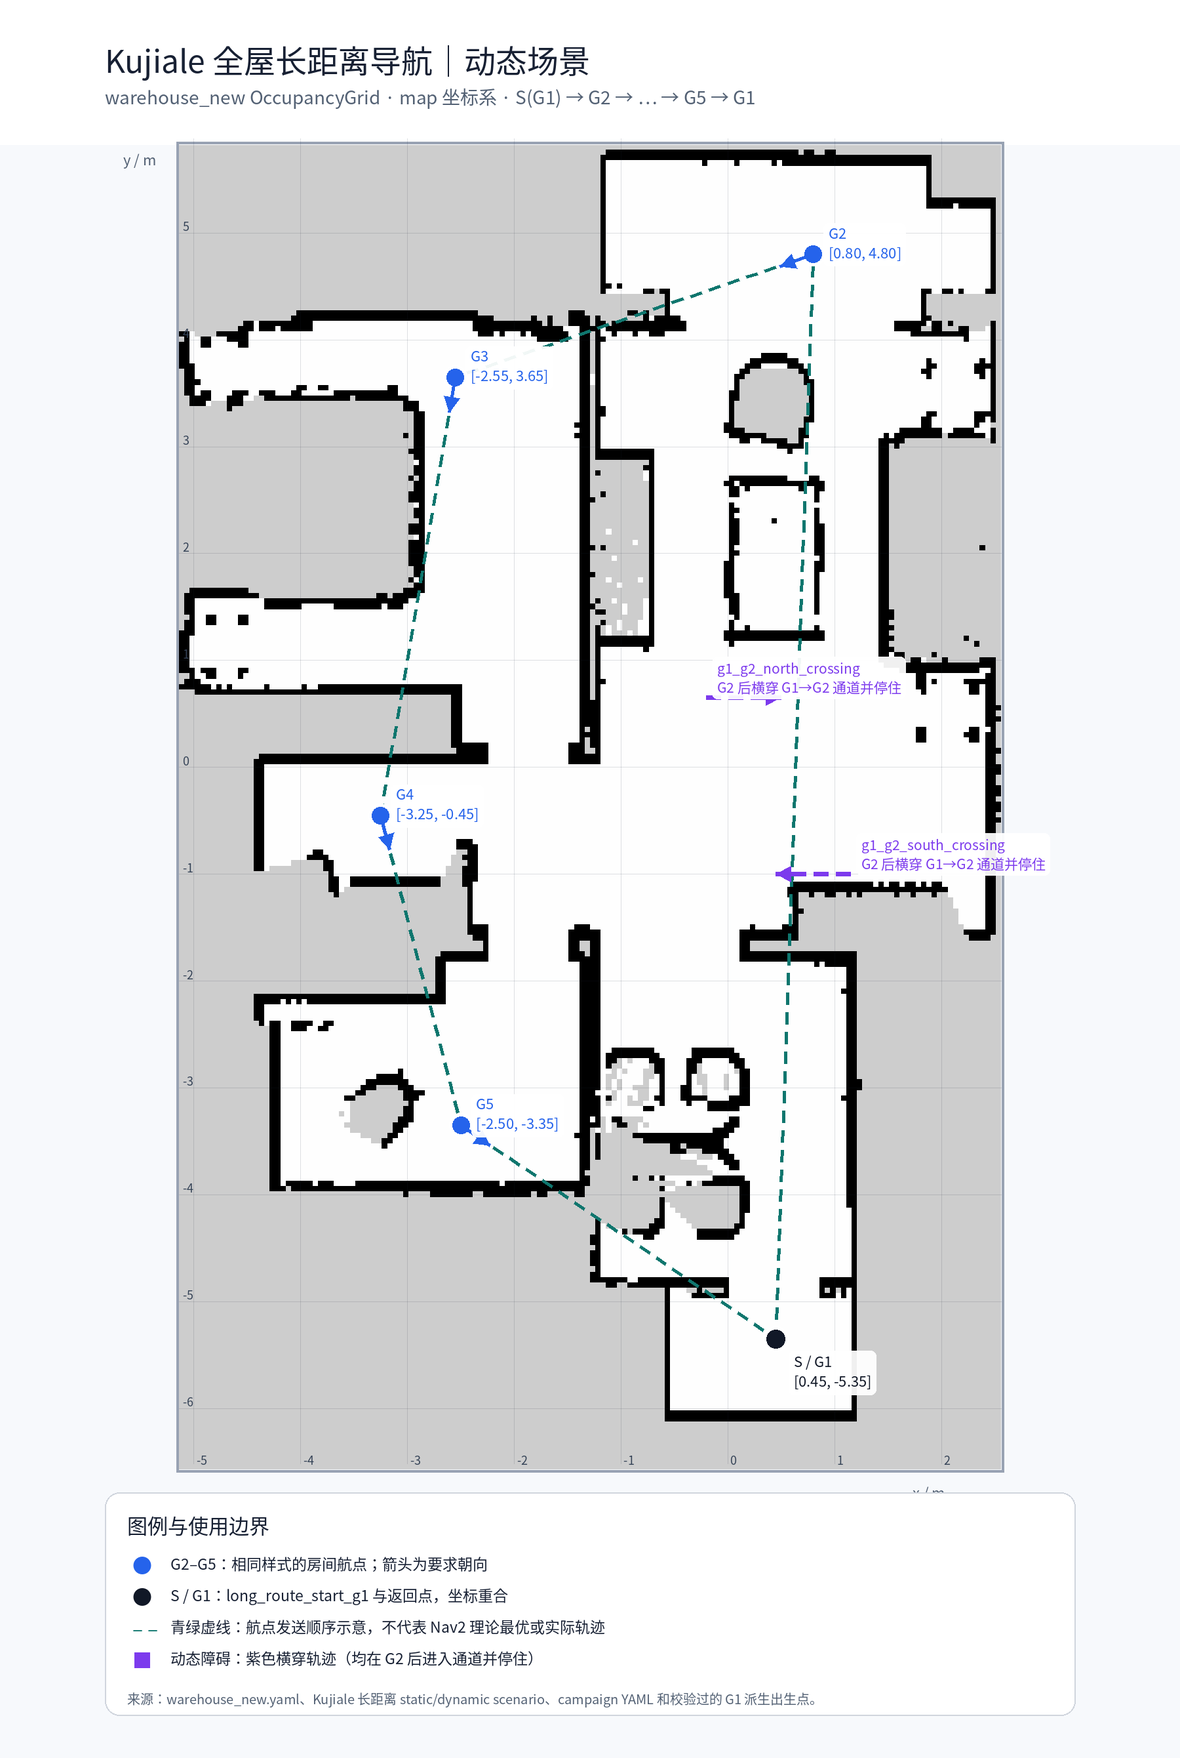
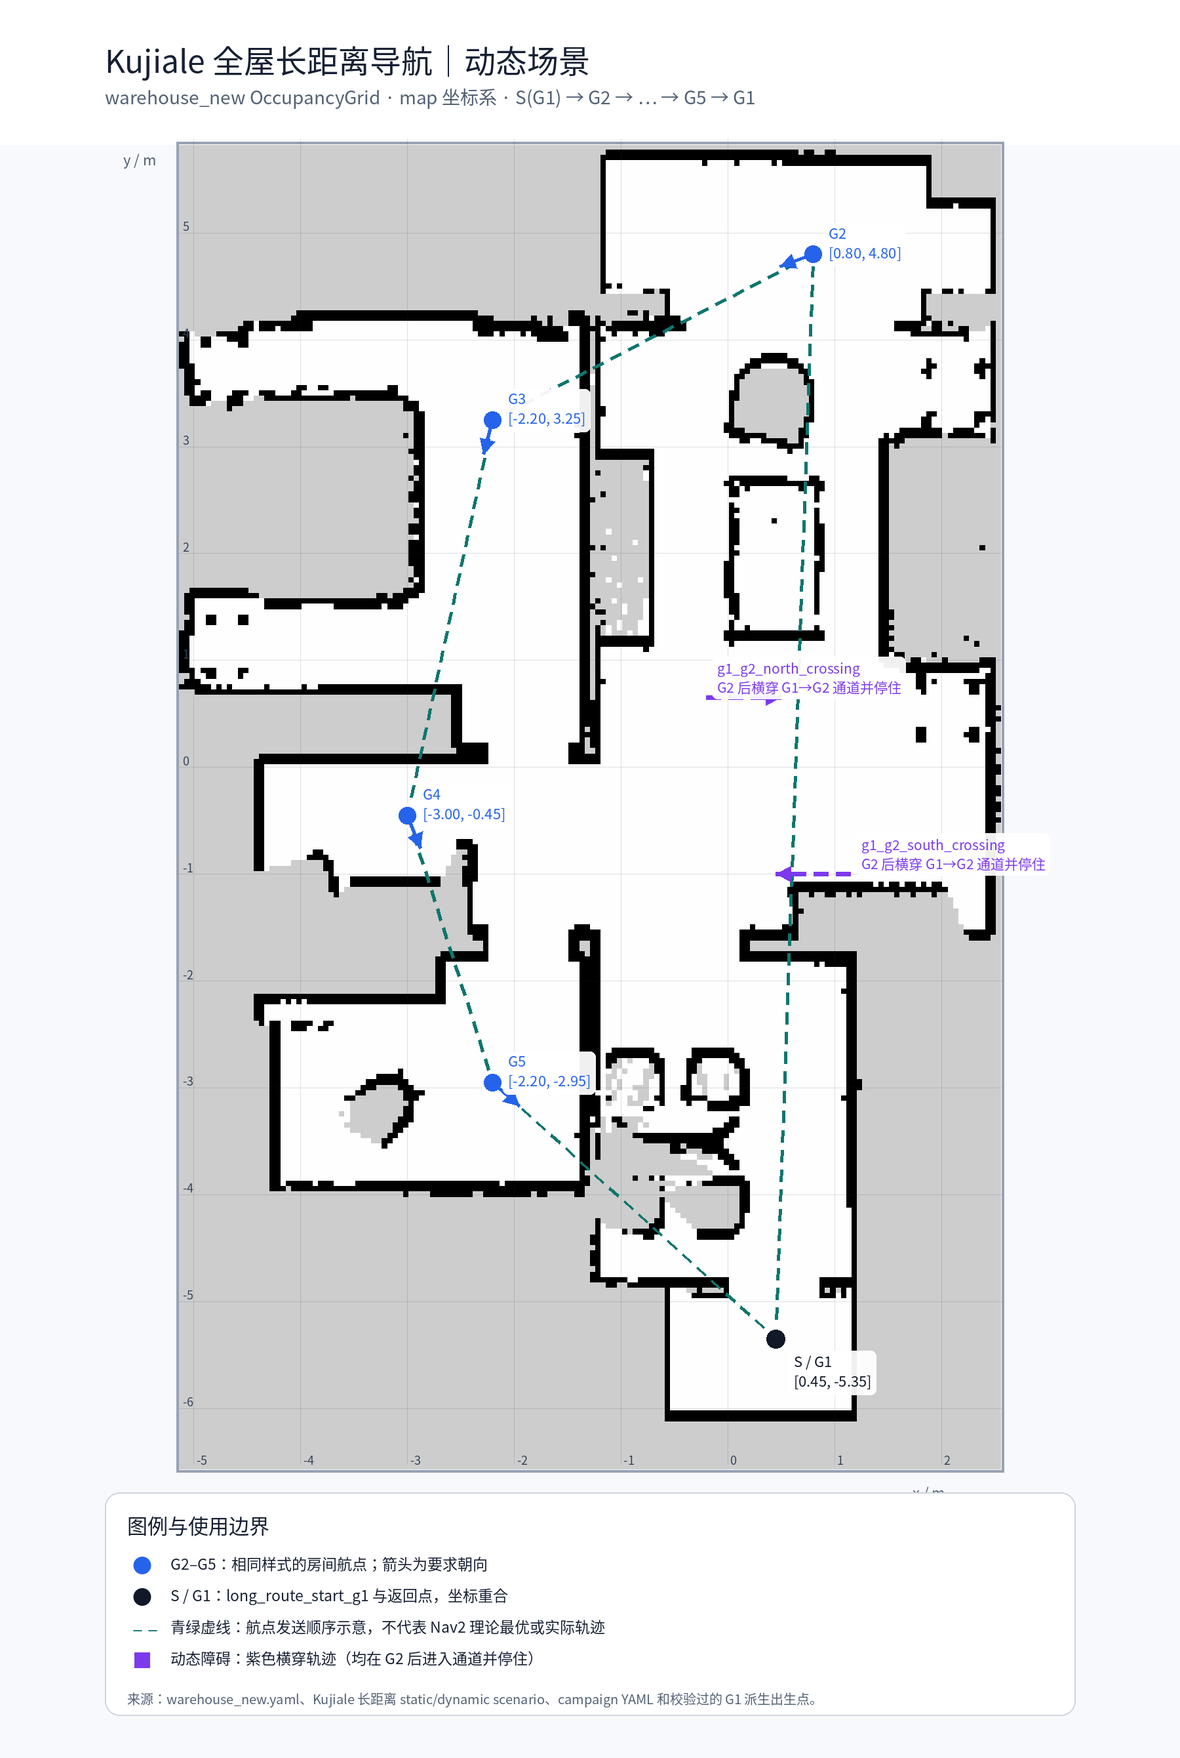
tune kujiale MPPI feasibility recovery  [remote-cleanup]

Changed region(s): [[0.3733, 0.5884, 0.5289, 0.6504], [0.3733, 0.1858, 0.4978, 0.2787], [0.3111, 0.4336, 0.3733, 0.4955]]

diff --git a/ros2_ws/src/robot_navigation/test/test_nav2_config.py b/ros2_ws/src/robot_navigation/test/test_nav2_config.py
@@ -37,7 +37,9 @@ def test_planner_controller_and_costmaps_are_strictly_two_dimensional():
     assert controller['visualize'] is True
     assert controller['time_steps'] == 20
     assert controller['model_dt'] == 0.10
-    assert controller['batch_size'] == 500
+    assert controller['batch_size'] == 700
+    assert controller['retry_attempt_limit'] == 3
+    assert controller['regenerate_noises'] is True
     assert controller['time_steps'] * controller['model_dt'] == 2.0
     assert controller['transform_tolerance'] >= 0.5
     assert local['rolling_window'] is True
@@ -82,7 +84,7 @@ def test_stable_overlay_preserves_the_verified_low_latency_mppi_budget():
     assert parameters['controller_frequency'] == 10.0
     assert follow_path['time_steps'] == 20
     assert follow_path['model_dt'] == 0.10
-    assert follow_path['batch_size'] == 500
+    assert follow_path['batch_size'] == 700
 
 
 def test_jazzy_command_chain_uses_unstamped_twist_and_safety_timeouts():
@@ -95,7 +97,7 @@ def test_jazzy_command_chain_uses_unstamped_twist_and_safety_timeouts():
 
     assert controller['enable_stamped_cmd_vel'] is False
     assert controller['controller_frequency'] == 10.0
-    assert controller['goal_checker']['xy_goal_tolerance'] < 0.25
+    assert controller['goal_checker']['xy_goal_tolerance'] == 0.20
     assert controller['goal_checker']['yaw_goal_tolerance'] <= 0.174532925
     assert behavior['enable_stamped_cmd_vel'] is False
     assert smoother['enable_stamped_cmd_vel'] is False
@@ -142,7 +144,7 @@ def test_mppi_turning_reverse_and_smoothing_limits_are_coherent():
     assert prefer_forward['enabled'] is True
     assert prefer_forward['cost_weight'] > 0.0
     assert prefer_forward['threshold_to_consider'] <= 0.5
-    assert controller['regenerate_noises'] is False
+    assert controller['regenerate_noises'] is True
     assert controller['visualize'] is True
 
     assert smoother['scale_velocities'] is True
@@ -202,6 +204,11 @@ def test_narrow_passage_profile_preserves_physical_collision_safety():
     for costmap in (local, global_costmap):
         assert costmap['footprint'] == local['footprint']
         assert 0.0 <= costmap['footprint_padding'] <= 0.005
+        voxel = costmap['depth_voxel_layer']
+        assert voxel['z_voxels'] == 16
+        # A front-only RGB-D camera must not turn every unobserved column into
+        # a 2D unknown obstacle over StaticLayer free space.
+        assert voxel['unknown_threshold'] == voxel['z_voxels']
         inflation = costmap['inflation_layer']
         padded_radius = max(
             math.hypot(x, y) for x, y in physical
@@ -211,13 +218,14 @@ def test_narrow_passage_profile_preserves_physical_collision_safety():
         assert inflation['cost_scaling_factor'] >= 6.0
 
     assert planner['cost_travel_multiplier'] <= 1.5
-    assert planner['tolerance'] \
-        < _params(config, 'controller_server')['goal_checker'][
-            'xy_goal_tolerance']
+    assert planner['tolerance'] == 0.10
+    assert planner['tolerance'] < _params(config, 'controller_server')[
+        'goal_checker']['xy_goal_tolerance']
     assert controller['CostCritic']['consider_footprint'] is True
     assert controller['CostCritic']['cost_weight'] <= 2.5
     assert controller['CostCritic']['trajectory_point_step'] == 1
     assert controller['CostCritic']['collision_cost'] >= 1000000.0
+    assert controller['GoalAngleCritic']['threshold_to_consider'] == 0.20
     assert controller['PathAlignCritic']['max_path_occupancy_ratio'] >= 0.30
 
 

diff --git a/ros2_ws/src/robot_experiments/test/test_configuration.py b/ros2_ws/src/robot_experiments/test/test_configuration.py
@@ -95,13 +95,21 @@ def test_kujiale_visual_scenarios_are_one_complete_redesigned_closed_route():
     assert dynamic.seeds == (7301,)
     assert [goal.goal_id for goal in static.route] == ["G2", "G3", "G4", "G5", "G1"]
     assert [goal.goal_id for goal in dynamic.route] == ["G2", "G3", "G4", "G5", "G1"]
-    # G4 is now the former toilet waypoint. All intermediate headings face
-    # the next route leg; the narrow-passage waypoint is intentionally gone.
-    expected_yaws = (-160.0, -100.0, -75.0, -35.0, 90.0)
+    # G4 is now the former toilet waypoint. Every intermediate target is in
+    # a high-clearance part of its room and points toward the next leg; the
+    # narrow-passage waypoint is intentionally gone.
+    expected_yaws = (-160.0, -105.0, -68.0, -42.0, 90.0)
     assert tuple(goal.yaw_deg for goal in static.route) == expected_yaws
     assert tuple(goal.yaw_deg for goal in dynamic.route) == expected_yaws
-    assert static.route[2].position == (-3.25, -0.45)
-    assert dynamic.route[2].position == (-3.25, -0.45)
+    expected_positions = (
+        (0.80, 4.80),
+        (-2.20, 3.25),
+        (-3.00, -0.45),
+        (-2.20, -2.95),
+        (0.45, -5.35),
+    )
+    assert tuple(goal.position for goal in static.route) == expected_positions
+    assert tuple(goal.position for goal in dynamic.route) == expected_positions
     for filename in (
         "kujiale_static_long_range.yaml",
         "kujiale_static_pilot.yaml",

diff --git a/docs/kujiale_long_range_navigation_test_plan.md b/docs/kujiale_long_range_navigation_test_plan.md
@@ -32,18 +32,19 @@
 | --- | --- | --- | ---: |
 | S / G1 | 最下方房间；出生点 | `[0.45, -5.35, 90 deg]` | 0.60 m |
 | G2 | 上方大房间 | `[0.80, 4.80, -160 deg]` | 0.90 m |
-| G3 | 左上房间出口侧 | `[-2.55, 3.65, -100 deg]` | 0.47 m |
-| G4 | 左侧厕所 | `[-3.25, -0.45, -75 deg]` | 0.55 m |
-| G5 | 左下房间 | `[-2.50, -3.35, -35 deg]` | 0.46 m |
+| G3 | 左上房间出口侧 | `[-2.20, 3.25, -105 deg]` | 0.70 m |
+| G4 | 左侧厕所 | `[-3.00, -0.45, -68 deg]` | 0.49 m |
+| G5 | 左下房间 | `[-2.20, -2.95, -42 deg]` | 0.75 m |
 | G1 | 最下方房间；闭环回归点 | `[0.45, -5.35, 90 deg]` | 0.60 m |
 
-原狭窄通道中的中间停靠点已删除，避免在有限净空内完成无意义的到点—转向动作。G3 直接连到原左侧厕所航点（现 G4），再到左下房间航点（现 G5）并回归 G1。中间航点朝向面向下一段：G3 为 `-100°`、G4 为 `-75°`、G5 为 `-35°`；这样让到点后的 MPPI 能直接建立下一段朝向。G4 仅作为普通房间航点显示和统计，不使用厕所专属样式。
+原狭窄通道中的中间停靠点已删除，避免在有限净空内完成无意义的到点—转向动作。G3 直接连到原左侧厕所航点（现 G4），再到左下房间航点（现 G5）并回归 G1。G3/G5 已移到同一房间内的高净空位置，分别从约 `0.47 m/0.46 m` 提升到约 `0.70 m/0.75 m`；G4 调整为 `[-3.00, -0.45]`，这是两次失败中机器人可稳定停住的同一通行中心线位置。中间航点朝向面向下一段：G3 为 `-105°`、G4 为 `-68°`、G5 为 `-42°`，让到点后的 MPPI 能直接建立下一段朝向。G4 仅作为普通房间航点显示和统计，不使用厕所专属样式。
 
-路线控制使用固定噪声 MPPI（`vx_std=0.35`、`wz_std=0.75`、`wz_max=1.35 rad/s`），并把 GoalAngleCritic 的预对准距离设为 `1.0 m`，以在中间目标完成前开始建立下一段朝向。局部/全局 Costmap 的真实 footprint 碰撞检查、`0.40 m` inflation 半径和 Collision Monitor 的 `StopZone` 均不变；仅将软代价梯度设为 `cost_scaling_factor=9.0`、CostCritic 权重设为 `1.35`，让低矮方块绕行选择连续轨迹而非爬行/重采样。SlowdownZone 横向半宽从 `0.235 m` 收紧到 `0.232 m`、触发点从 5 提高到 6，避免有效平行墙回波反复造成爬行/停车。
+路线控制使用 700 样本、可重采样的 MPPI（`vx_std=0.35`、`wz_std=0.75`、`wz_max=1.35 rad/s`）。当一次局部 Costmap 短时变化使候选轨迹全部不可行时，控制器先以新噪声银行内部重试最多 3 次，避免不必要地进入 `FollowPath` 中止、清图和行为树恢复；这不放宽碰撞检查或 Action 超时。GoalAngleCritic 仅在距目标 `0.20 m` 内才开始建立所需朝向：中间目标的 yaw 面向下一段，若从 `1.0 m` 便预转向会使机器人在尚未抵达位置目标时背向来路而反复倒车。局部/全局 Costmap 的真实 footprint 碰撞检查、`0.40 m` inflation 半径和 Collision Monitor 的 `StopZone` 均不变；仅将软代价梯度设为 `cost_scaling_factor=9.0`、CostCritic 权重设为 `1.35`，让低矮方块绕行选择连续轨迹而非爬行/重采样。两个 RGB-D VoxelLayer 均把 `unknown_threshold` 设为与 `z_voxels` 相同的 `16`：已观测的低矮障碍仍会标记，但前向相机视野外的全未知体素列不会覆盖 StaticLayer 的空闲格，从而避免 G1 回归时的虚假终点阻塞。SlowdownZone 横向半宽从 `0.235 m` 收紧到 `0.232 m`、触发点从 5 提高到 6，避免有效平行墙回波反复造成爬行/停车。
 
 统一航点条件：
 
-- 位置误差不高于 `0.25 m`；
+- Nav2 `NavigateToPose` 在 `0.20 m` 内返回 `SUCCEEDED`，比报告的 Ground Truth 门槛严格 `0.05 m`；该半径避免最后几厘米的恢复循环阻塞下一个航点；
+- 正式报告仍以独立 Ground Truth `0.25 m` 位置门槛复核；
 - 朝向误差不高于 `10 deg`；
 - 每段 Nav2 Action 必须返回 `SUCCEEDED`；
 - 单段超时：静态 `180 s`、动态 `210 s`；

diff --git a/docs/verification.md b/docs/verification.md
@@ -55,7 +55,7 @@ Isaac 使用 headless + realtime pacing，目标 RTF 为 `1.0`。报告元数据
 | Custom Kujiale mapping Stage | `kujiale_0026_A_to_B_door_open.usd` resolved by filename from `/home/lyb`, composed with the Jackal overlay, meter/Z metadata and one auto-created `/PhysicsScene`. The promoted `warehouse_new` map is `154 x 248 @ 0.05 m`, with 18,015 free and 3,294 occupied cells | full saved OccupancyGrid promoted for Ideal navigation |
 | `warehouse_new` calibration | Three independent Isaac + ROS cold starts held `map -> base_link` at identity. Occupancy-grid scan correlation used 703–704 live endpoints per final trials; each trial placed 100% within `0.075 m` of occupied cells, with mean raster distances `0.0028 / 0.0032 / 0.0028 m` | identity Map Pose accepted at the map's 0.05 m resolution; conservative uncertainty `0.05 m / 1°` |
 | `warehouse_new` Ideal navigation | With no explicit ROS map arguments, Map Server loaded `154 x 248` `warehouse_new`, all six Nav2 managed nodes became Active, and a goal at `[1.435, -0.395, 0°]` succeeded in about `4.7 s` simulated time with 0 recoveries and about `0.15 m` final position error. After the dead-end recovery change, the same goal succeeded again in about `3.43 s` simulated time with 0 recoveries | calibrated short-route smoke and post-recovery regression passed; complex multi-room route not yet run |
-| `warehouse_new` long-route smoothness profile | Current configuration retains the physical `0.485 x 0.420 m` footprint, `0.005 m` padding and `0.40 m / 9.0` inflation; StopZone remains `0.535 x 0.460 m`. The current five-goal route deliberately skips the former narrow-passage stop. The tuning uses a `0.660 x 0.464 m` SlowdownZone at 90%, requires 6 scan points, disables predictive ApproachZone, fixes MPPI noise and uses the 500-sample stable overlay. | The earlier `49.09 s → 27.87 s` result was obtained with the previous `0.770 x 0.470 m`/85%/ApproachZone profile and remains historical evidence only. This configuration has passed static checks but needs a new GUI navigation run before any performance claim. |
+| `warehouse_new` long-route smoothness profile | Current configuration retains the physical `0.485 x 0.420 m` footprint, `0.005 m` padding and `0.40 m / 9.0` inflation; StopZone remains `0.535 x 0.460 m`. The current five-goal route deliberately skips the former narrow-passage stop. The tuning uses a `0.660 x 0.464 m` SlowdownZone at 90%, requires 6 scan points, disables predictive ApproachZone, and uses a 700-sample MPPI bank with fresh-noise internal retries (limit 3) before BT recovery. | The earlier `49.09 s → 27.87 s` result was obtained with the previous `0.770 x 0.470 m`/85%/ApproachZone profile and remains historical evidence only. This configuration has passed static checks but needs a new GUI navigation run before any performance claim. |
 | Dead-end reverse recovery | Historical run: both navigator plugins ordered costmap clear, `BackUp`, `Spin`, then a one-second wait. The then-forward-only MPPI setting used `vx_min=0`; the current configuration permits bounded `vx_min=-0.15 m/s` terminal adjustment and the Velocity Smoother permits recovery down to `-0.25 m/s`. The recorded cul-de-sac repeat reversed `0.350 m` in about `3.22 s` and returned `SUCCEEDED` with the lidar Collision Monitor retained. | Historical root-cause evidence; current long-route acceptance is recorded above. |
 | RTX LiDAR | Single-channel `RPLIDAR_S2E` clouds used frame `rtx_world`, contained 3,058–3,098 points (median 3,079), and were observed at about `13 Hz` wall time in the checked fast-simulation run | horizontal scan and processing-rate baseline verified on the custom room |
 | LaserScan projection | 720 beams in `base_link`; stationary valid-return ratio median `97.57%`, and during 109 rotating frames median/minimum were `97.92% / 96.94%` | rate/frame/shape and moving projection density verified |

diff --git a/docs/interfaces.md b/docs/interfaces.md
@@ -486,9 +486,10 @@ may be replaced with broad `pkill` commands.
 ## Navigation control performance contract
 
 The committed MPPI timing keeps the measured Isaac Sim 6.0.1 headless Ideal
-baseline. The batch reduction also passed two consecutive Realistic curved
-goals, including a reverse-turning goal. Fixed MPPI noise and the tighter
-SlowdownZone avoid continuous micro-adjustments in traversable narrow passages;
+baseline. The long-route static campaign showed that a fixed 500-sample noise
+bank can be temporarily infeasible after a local-costmap update, causing an
+unnecessary controller abort and BT costmap-clear recovery. The shipped profile
+therefore uses a bounded larger sample bank and internal re-sampling retries;
 the StopZone remains active while ApproachZone is deliberately disabled:
 
 | Parameter | Value | Reason |
@@ -496,10 +497,11 @@ the StopZone remains active while ApproachZone is deliberately disabled:
 | `controller_frequency` | 10 Hz | Preserves the two-second horizon and remained close to its target under the measured Realistic load. |
 | `FollowPath.time_steps` | 20 | Combined with `model_dt` keeps the prediction horizon at two seconds. |
 | `FollowPath.model_dt` | 0.10 s | Matches the measured controller period. |
-| `FollowPath.batch_size` | 500 | Avoids localization contention while preserving the two-second horizon. |
-| `FollowPath.regenerate_noises` | `false` | Reuses the noise table to prevent controller-cycle sampling jitter. |
-| `FollowPath.vx_std` / `wz_std` | `0.35` / `0.75` | Preserves deterministic sampling while providing enough continuous turning candidates at a narrow-passage entrance. |
-| `FollowPath.GoalAngleCritic` / `CostCritic` | `1.0 m` / `1.35` | Begins goal-heading alignment before each intermediate goal completes, while retaining complete-footprint collision rejection for RGB-D low-box bypasses. |
+| `FollowPath.batch_size` | 700 | Keeps the two-second horizon while providing enough candidate rollouts for a transiently constrained local costmap. |
+| `FollowPath.retry_attempt_limit` | 3 | Re-samples internally before escalating an exhausted candidate bank to the BT recovery tree. |
+| `FollowPath.regenerate_noises` | `true` | Makes each internal retry explore a new candidate bank rather than repeating the same infeasible samples. |
+| `FollowPath.vx_std` / `wz_std` | `0.35` / `0.75` | Bounds each freshly sampled candidate bank while retaining enough continuous turning candidates at a narrow-passage entrance. |
+| `FollowPath.GoalAngleCritic` / `CostCritic` | `0.20 m` / `1.35` | Defers intermediate-yaw alignment until the position gate is reached, while retaining complete-footprint collision rejection for RGB-D low-box bypasses. |
 | Costmap inflation | `0.40 m`, scaling `9.0` | Keeps the physical clearance radius while reducing only the soft-cost tail that caused crawl/re-sample cycles. |
 | `SlowdownZone` | `0.660 × 0.464 m`, 6 points, 90% | Leaves StopZone unchanged but rejects sparse/parallel-wall returns that previously clipped a traversable corridor. |
 | `ApproachZone` | disabled | MPPI performs footprint-aware costmap prediction; StopZone remains the final LiDAR hard stop. |

diff --git a/docs/user_manual.md b/docs/user_manual.md
@@ -150,7 +150,9 @@ Nav2 lifecycle activation completed
 
 每个目标记录是否成功、是否出现 StopZone/碰撞、是否有持续振荡，以及完成后是否
 静止。Nav2 目标检查的 XY 容差为 `0.20 m`；正式实验的 Ground Truth 成功门槛为
-`0.25 m`，二者不是同一个概念。
+`0.25 m`，二者不是同一个概念。Nav2 的动作收敛半径比报告门槛更严格 `0.05 m`，因此
+报告余量不会再成为提前结束的理由。RGB-D VoxelLayer 仅把实际深度观测标记为低矮障碍；相机前向视野外
+的全未知体素列不会覆盖静态地图的空闲格，避免到点阶段出现虚假的 Costmap 阻塞。
 
 ### 3.5 RGB-D 观察
 
@@ -530,8 +532,9 @@ YAML 中的临时种子位置。
 使用 Move 工具（`W`）只修改每个 Prim 的 **Translate X/Y**；不要旋转、缩放，也不要改变
 `Z=0.08 m`。四个方块是 `0.30 × 0.30 × 0.16 m`，两个长条是 `0.60 × 0.30 × 0.16 m`；普通仿真 tick 不会覆盖 GUI 拖动，因此可在
 机器人停止后再次拖动、再次测试任意次数。每次修改后在 RViz 选择 **2D Goal Pose**，按顺序发送
-G2 `[0.80, 4.80, -160°]`、G3 `[-2.55, 3.65, -100°]`、G4 `[-3.25, -0.45, -75°]`、
-G5 `[-2.50, -3.35, -35°]`、G1 `[0.45, -5.35, 90°]`。
+G2 `[0.80, 4.80, -160°]`、G3 `[-2.20, 3.25, -105°]`、G4 `[-3.00, -0.45, -68°]`、
+G5 `[-2.20, -2.95, -42°]`、G1 `[0.45, -5.35, 90°]`。Nav2 仅在距离目标不超过 `0.20 m`
+时完成 Action；GoalAngleCritic 同样在最后 `0.20 m` 才执行下一段朝向的预对准，避免尚未到点就背向来路。报告仍会用独立 Ground Truth `0.25 m` 门槛复核。
 原狭窄通道停靠点已删除；G4 是原左侧厕所航点，只作为普通目标显示。观察深度点云、VoxelGrid、Local
 Costmap、MPPI 路径和实际绕行。此交互式过程不创建 MCAP、JSON、CSV、报告或正式实验目录。
 

diff --git a/docs/kujiale_long_route_map.md b/docs/kujiale_long_route_map.md
@@ -45,12 +45,12 @@
 |---:|---|---|---:|---:|
 | 0 | S / G1 | 最下方房间；出生点 | `[0.45, -5.35]` | `90°` |
 | 1 | G2 | 上方大房间 | `[0.80, 4.80]` | `-160°` |
-| 2 | G3 | 左上房间出口侧 | `[-2.55, 3.65]` | `-100°` |
-| 3 | G4 | 左侧厕所 | `[-3.25, -0.45]` | `-75°` |
-| 4 | G5 | 左下房间 | `[-2.50, -3.35]` | `-35°` |
+| 2 | G3 | 左上房间出口侧 | `[-2.20, 3.25]` | `-105°` |
+| 3 | G4 | 左侧厕所 | `[-3.00, -0.45]` | `-68°` |
+| 4 | G5 | 左下房间 | `[-2.20, -2.95]` | `-42°` |
 | 5 | G1 | 最下方房间；闭环回归点 | `[0.45, -5.35]` | `90°` |
 
-G3 从原来的房间深处移到出口侧 `[-2.55, 3.65]`，栅格净空约 `0.47 m`；它直接连接至原左侧厕所航点（现 G4）。原狭窄通道停靠点已删除，因此不会在该处要求一次单独的到点/原地转向。原左侧厕所和左下房间航点依次重编号为 G4、G5；图中的青绿色虚线只表示 runner 的发送顺序 `S(G1) → G2 → G3 → G4 → G5 → G1`，不代表 Nav2 实际规划或 Ground Truth 路线。
+G3 和 G5 已分别移到 `[-2.20, 3.25]`、`[-2.20, -2.95]` 的高净空区域：栅格净空约 `0.70 m`、`0.75 m`，高于原位置的约 `0.47 m`、`0.46 m`；G4 沿同一通行中心线调整为 `[-3.00, -0.45]`，避免其原坐标最后约 20 cm 的终端恢复循环。它们仍依次连接 G2、G4、G1。原狭窄通道停靠点已删除，因此不会在该处要求一次单独的到点/原地转向。图中的青绿色虚线只表示 runner 的发送顺序 `S(G1) → G2 → G3 → G4 → G5 → G1`，不代表 Nav2 实际规划或 Ground Truth 路线。
 
 G2–G5 在两图中统一使用相同的蓝色图标、尺寸和颜色；G4 仅保留普通区域标签，不使用厕所专属样式。
 

diff --git a/README.md b/README.md
@@ -1,6 +1,6 @@
 # Isaac Sim 6.0.1 + ROS 2 Jazzy：酷家乐 RGB-D 导航
 
-https://github.com/user-attachments/assets/e744bbde-e0d9-423f-9508-39e2d9ee70a0
+https://github.com/user-attachments/assets/c04fb3ac-ffc2-43b8-bfbb-710f01e03c5c
 
 本分支提供 Clearpath Jackal 在酷家乐室内场景中的 Isaac Sim 导航闭环：二维
 LiDAR、前向 RGB-D、Nav2、RViz、确定性 Reset 与长距离实验。README、使用手册和
